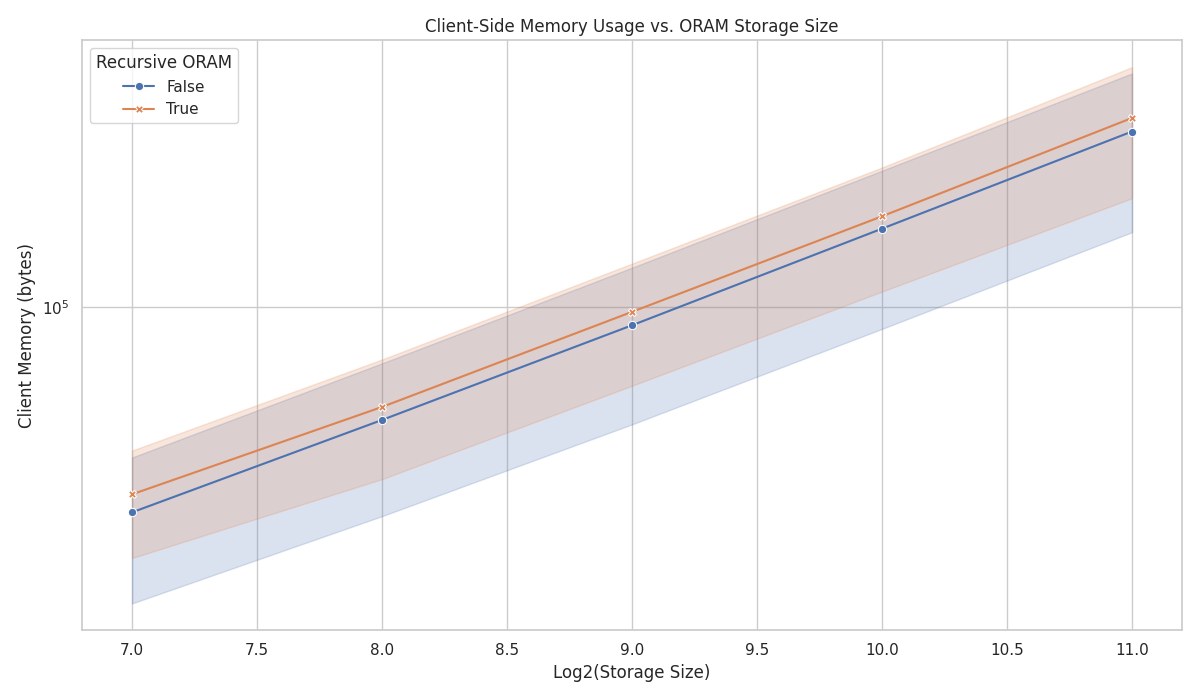
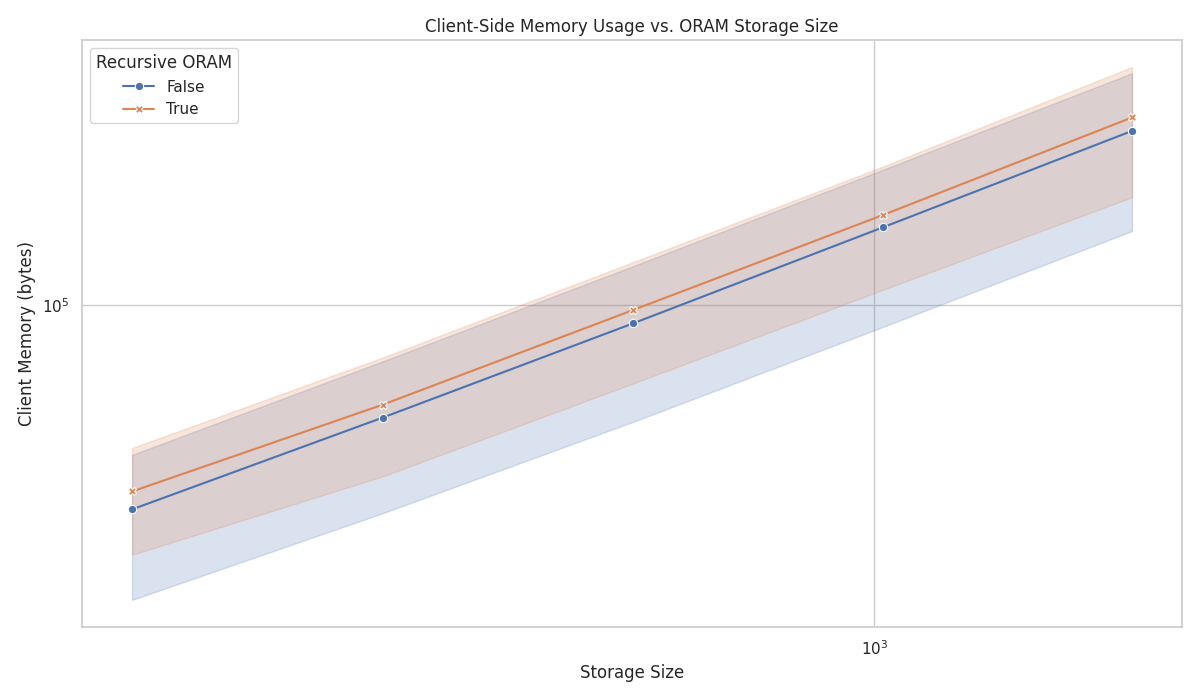
overhead graph is with fixed storage_size, fix linting

diff --git a/analysis.py b/analysis.py
@@ -1,8 +1,8 @@
-import pandas as pd
-import matplotlib.pyplot as plt
-import seaborn as sns
-import numpy as np
 import os
+
+import matplotlib.pyplot as plt
+import pandas as pd
+import seaborn as sns
 
 sns.set_theme(style="whitegrid")
 if not os.path.exists("plots"):
@@ -26,7 +26,7 @@ def calculate_derived_metrics(df):
     df["total_information"] = df["bytes_read"] + df["bytes_written"]
     # overhead ratio, lower is better
     df["bandwidth_overhead"] = df["total_bandwidth"] / df["total_information"]
-    df["log2_storage_size"] = np.log2(df["config_storage_size"] + 1)
+    df["storage_size"] = df["config_storage_size"]
     return df
 
 
@@ -34,7 +34,7 @@ def plot_throughput_vs_storage_size(df):
     plt.figure(figsize=(12, 7))
     g = sns.lineplot(
         data=df,
-        x="log2_storage_size",
+        x="storage_size",
         y="throughput",
         hue="config_use_recursive",
         style="config_use_recursive",
@@ -43,9 +43,10 @@ def plot_throughput_vs_storage_size(df):
         errorbar="sd",
     )
     g.set_title("Throughput vs. ORAM Storage Size")
-    g.set_xlabel("Log2(Storage Size)")
+    g.set_xlabel("Storage Size")
     g.set_ylabel("Throughput (r/w operations/second)")
     g.legend(title="Recursive ORAM")
+    g.set_xscale("log")
     plt.tight_layout()
     plt.savefig("plots/throughput_vs_storage_size.png")
     plt.close()
@@ -55,7 +56,7 @@ def plot_client_size_vs_storage_size(df):
     plt.figure(figsize=(12, 7))
     g = sns.lineplot(
         data=df,
-        x="log2_storage_size",
+        x="storage_size",
         y="client_size",
         hue="config_use_recursive",
         style="config_use_recursive",
@@ -64,9 +65,10 @@ def plot_client_size_vs_storage_size(df):
         errorbar="sd",
     )
     g.set_title("Client-Side Memory Usage vs. ORAM Storage Size")
-    g.set_xlabel("Log2(Storage Size)")
+    g.set_xlabel("Storage Size")
     g.set_ylabel("Client Memory (bytes)")
     g.legend(title="Recursive ORAM")
+    g.set_xscale("log")
     plt.yscale("log")
     plt.tight_layout()
     plt.savefig("plots/client_size_vs_storage_size.png")
@@ -74,9 +76,10 @@ def plot_client_size_vs_storage_size(df):
 
 
 def plot_bandwidth_overhead_vs_block_size(df):
+    df_fixed_storage = df[df.config_storage_size == 2047]
     plt.figure(figsize=(12, 7))
     g = sns.lineplot(
-        data=df,
+        data=df_fixed_storage,
         x="config_block_size",
         y="bandwidth_overhead",
         hue="config_use_recursive",
@@ -85,7 +88,7 @@ def plot_bandwidth_overhead_vs_block_size(df):
         dashes=False,
         errorbar="sd",
     )
-    g.set_title("Bandwidth Overhead vs. Block Size (lower is better)")
+    g.set_title("Bandwidth Overhead vs. Block Size (storage size = 2047)")
     g.set_xlabel("Block Size (bytes)")
     g.set_ylabel("Bandwidth Overhead (transmitted bytes / information bytes)")
     g.legend(title="Recursive ORAM")

diff --git a/src/pathoram/client/pathoram_client.py b/src/pathoram/client/pathoram_client.py
@@ -129,7 +129,7 @@ class ClientOram:
         return block
 
     def get_client_size(self) -> int:
-        return asizeof.asizeof(self)
+        return int(asizeof.asizeof(self))  # type: ignore[no-untyped-call]
 
     def __getitem__(self, address: int) -> bytes:
         return self.read_block(address)
@@ -304,4 +304,4 @@ class ClientOramRecursive:
         return self.write_block(address, block)
 
     def get_client_size(self) -> int:
-        return asizeof.asizeof(self)
+        return int(asizeof.asizeof(self))  # type: ignore[no-untyped-call]
